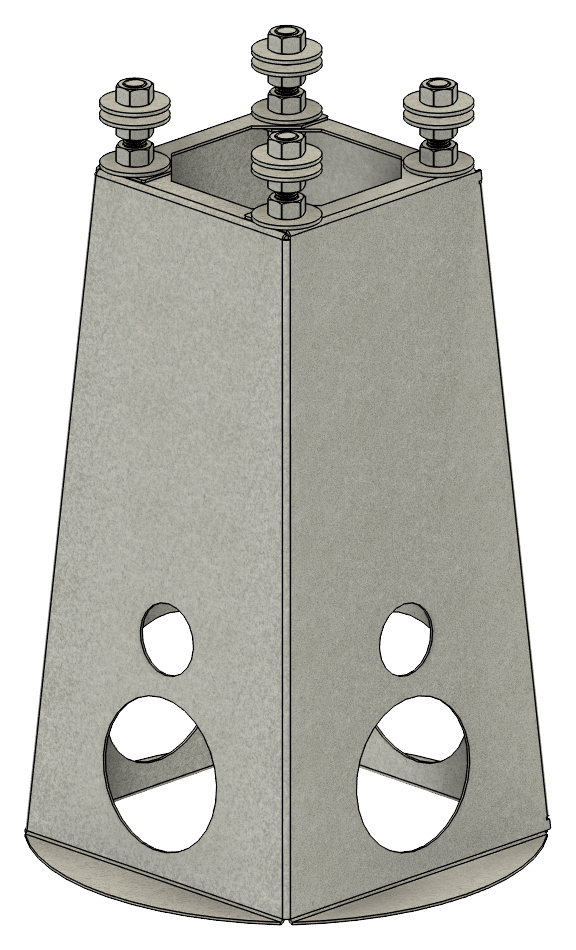
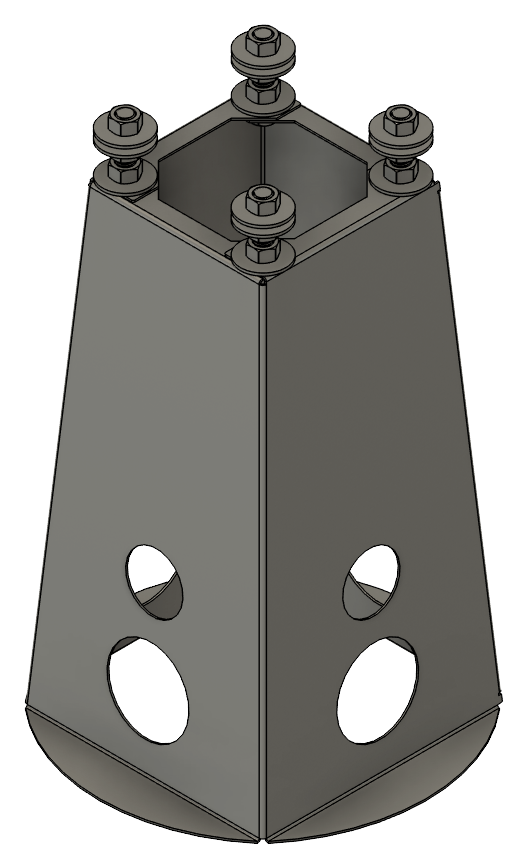
Use consistent product-line photo set, add missing Large foundation photo
- Replace Bollard/Small photos with matching-style renders from the
  same camera/lighting setup as Medium, so all four product-line cards
  are visually consistent.
- Add a real photo for NordBase Large, which previously had no render
  and showed an SVG placeholder ("Render coming soon") in both the
  site's Product Line grid and the calculator's foundation picker.

diff --git a/src/NordBaseCalculator.jsx b/src/NordBaseCalculator.jsx
@@ -139,6 +139,7 @@ const FOUNDATIONS = {
     weightLb: 99.21, // 45 kg
     hasCharger: true,
     hasAccessories: false,
+    photoUrl: "/nordbase-large.png",
     // ---- Confirmed structural data (Nordinfra_Master_USA_ASCE7_v6 — DC Large, 2026-08-21) ----
     wallThicknessMm: 1.9, // ASTM A1011 SS Gr33 + ZM115, 14ga — same as Small/Medium
     shellBottom: { w: 36, d: 36 }, // actual tapered shell/mantle bottom (914.4mm) — narrower than the base-plate foot above

diff --git a/site/src/App.jsx b/site/src/App.jsx
@@ -50,7 +50,7 @@ const PRODUCTS = [
     name: "NordBase Large",
     level: "Level 4",
     desc: "For Level 4 / high-power DC charging. Widened plate, reinforced shell.",
-    image: null, // no render yet — adapter-plate CC options still in development
+    image: "/photos/product-large.png",
   },
 ];
 
